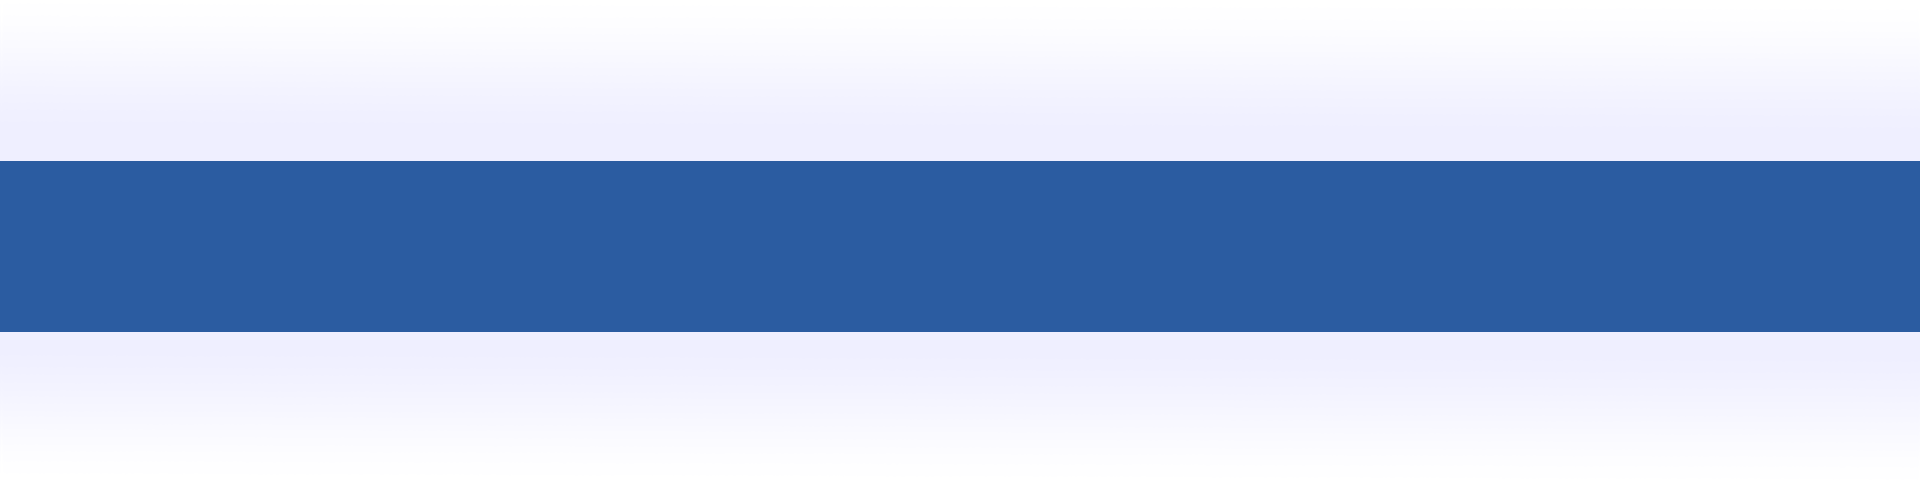
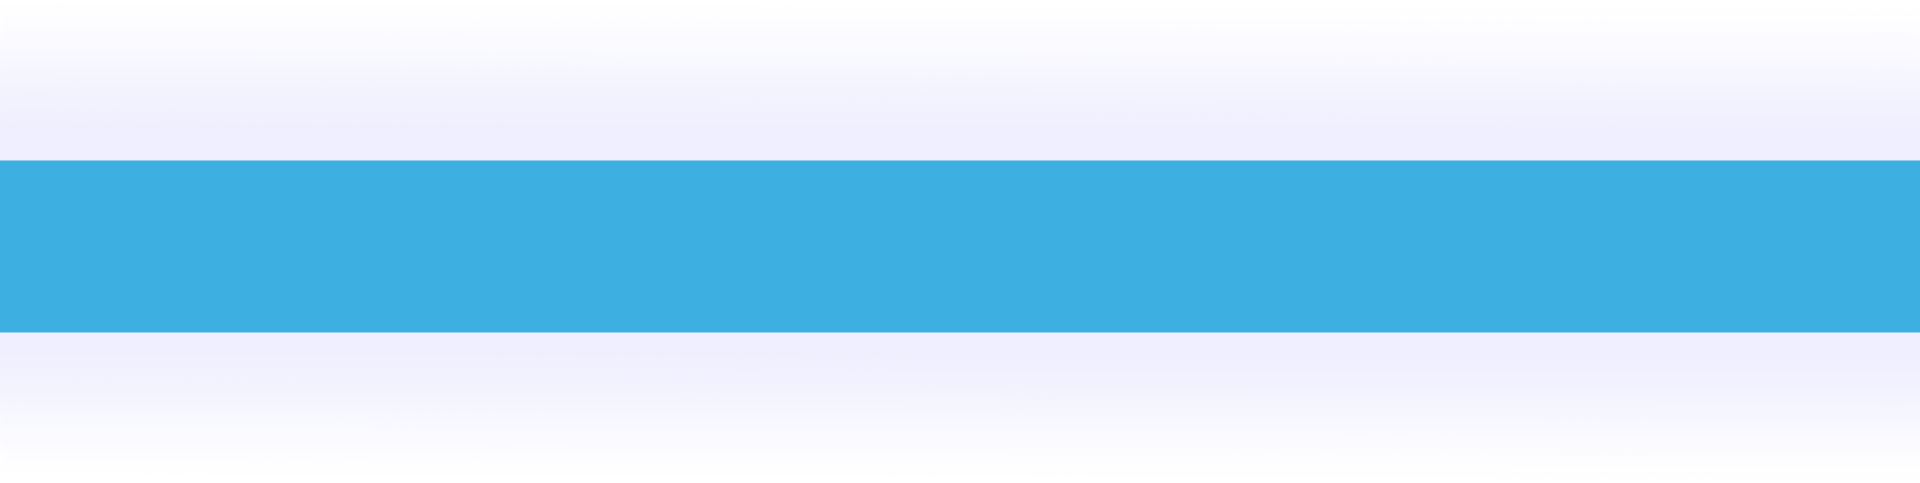
修改登录界面

diff --git a/basefm/src/main/webapp/WEB-INF/static/uadmin/css/login.css b/basefm/src/main/webapp/WEB-INF/static/uadmin/css/login.css
@@ -1,6 +1,6 @@
 *{padding: 0;margin: 0;}
 html,body{
-	background-color: #115097;
+	background-color: #033661;
 }
 input[type=checkbox]  {  
     display: inline-block;  
@@ -40,8 +40,6 @@ input[type=checkbox]:checked:after  {
 	top: 0;bottom: 0;
 	left: 0;right: 0;
 	margin: auto;
-	border-top: 4px solid rgba(72,121,190,1);
-	border-bottom: 4px solid rgba(72,121,190,1);
 	z-index: 10;
 }
 #light,
@@ -144,7 +142,7 @@ input[type=checkbox]:checked:after  {
 	outline: none;
 }
 #main-center .w-1200 .box>.user-in div input:focus{
-	border: 1px solid #4774B1;
+	border: 1px solid #0494df;
 }
 #main-center .w-1200 .box>.user-in .form-group div input{
 	width: 100px;
@@ -240,3 +238,8 @@ input[type=checkbox]:checked:after  {
 	color: #EFEFEF;
 	
 }
+
+#btn-register{
+	text-decoration:none;
+}
+

diff --git a/basefm/src/main/webapp/WEB-INF/static/common/css/style.css b/basefm/src/main/webapp/WEB-INF/static/common/css/style.css
@@ -63,7 +63,7 @@ a:focus {
 
 .navbar-default .nav > li > a:hover,
 .navbar-default .nav > li > a:focus {
-    background-color: #293846;
+    background-color: #033661;
     color: white;
 }
 
